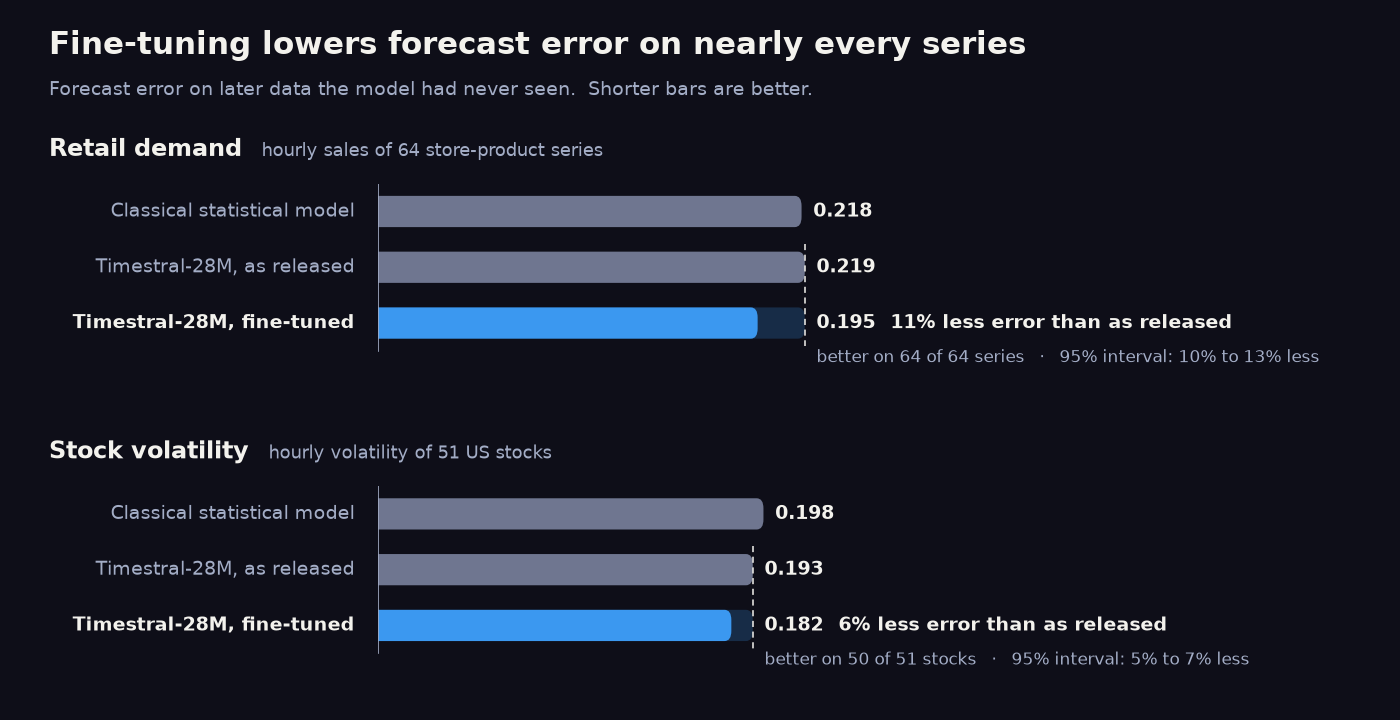
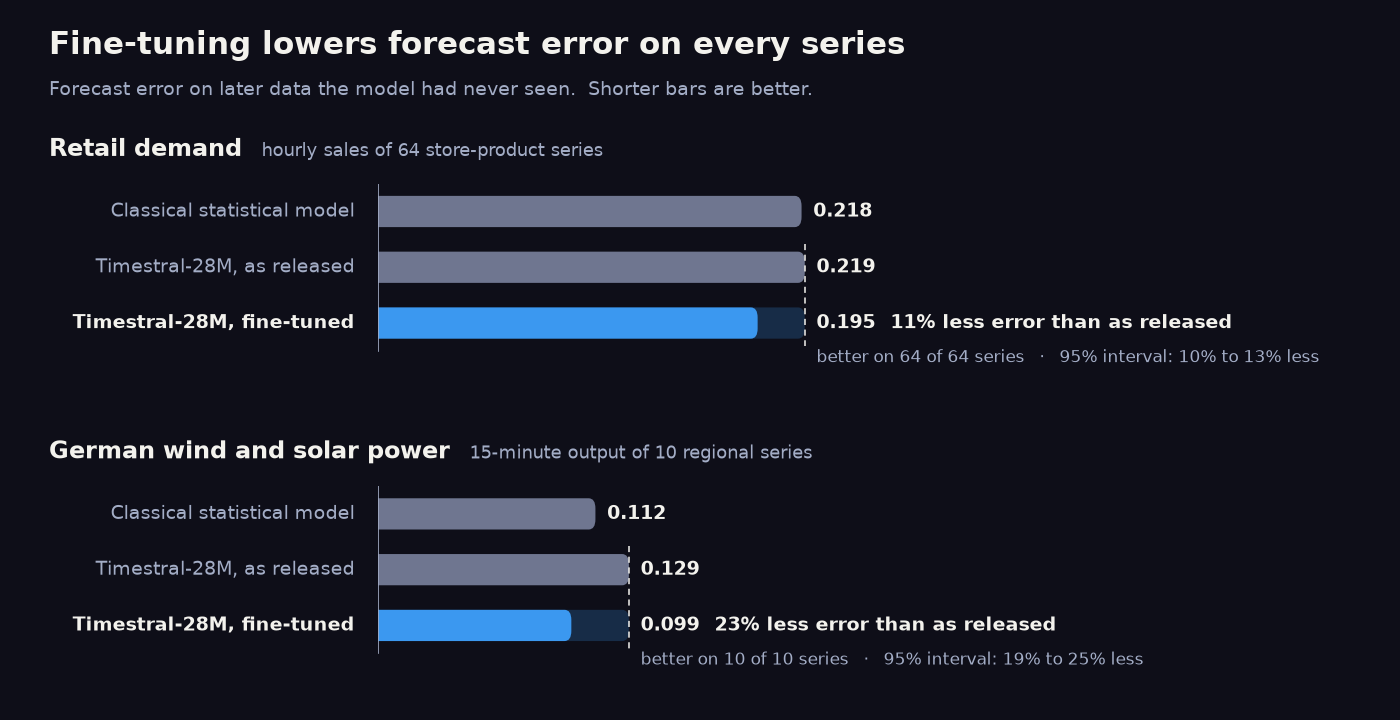
docs: lead the results chart with retail demand and German power
Stock volatility was the weakest result in the chart (6%, on a test
period that mostly predates the release). German wind and solar power is
the strongest one measured: 23% less error than the released model (95%
interval 19% to 25%), on all 10 series and 24 of 25 days, on data taken
entirely from after the release.

make_results_chart.py now reads its second panel from
wp3_unfamiliar_domains.json and names the classical baseline explicitly,
because the smallest baseline error in that file is the tuned
gradient-boosted model. That model is not drawn; the README says in the
sentence under the chart that fine-tuned 28M is level with it on German
power, and that the dataset was picked because the released model does
poorly on it.

The README headline, alt text and caption and the Summary in
docs/BENCHMARKS.md follow the chart. Stock volatility moves to "what
else we found" with its numbers kept. Evidence: docs/VERIFICATION.md §16.

diff --git a/scripts/make_results_chart.py b/scripts/make_results_chart.py
@@ -6,7 +6,10 @@ true proportion. A dashed line marks the model as released and the gap to the fi
 shaded. Under the fine-tuned bar the chart states how many series improved and the 95% confidence
 interval of the gain, so that a reader can see the gain is not noise.
 
-Every number is read from ``docs/benchmarks/sig_v2.json``; nothing is typed in by hand.
+Every number is read from the committed results; nothing is typed in by hand. Retail demand comes from
+``docs/benchmarks/sig_v2.json`` and German power, a test set from after the models' release, from
+``docs/benchmarks/wp3_unfamiliar_domains.json``. The tuned gradient-boosted baseline of that second
+file is deliberately not a bar: the README states that comparison in words next to the chart.
 
 matplotlib is not a project dependency. Run from the repository root:
 
@@ -26,7 +29,8 @@ import matplotlib.pyplot as plt
 from matplotlib.patches import FancyBboxPatch, Rectangle
 
 ROOT = Path(__file__).resolve().parent.parent
-SOURCE = ROOT / "docs" / "benchmarks" / "sig_v2.json"
+SIGNIFICANCE = ROOT / "docs" / "benchmarks" / "sig_v2.json"
+POST_RELEASE = ROOT / "docs" / "benchmarks" / "wp3_unfamiliar_domains.json"
 OUT = ROOT / "assets" / "results.png"
 
 # Colours follow the banner: near-black navy surface, cream text. The fine-tuned bar is blue and
@@ -38,30 +42,48 @@ TUNED = "#3b98f0"
 OTHER = "#6f7690"
 
 MODEL = "Timestral-28M"
+MODEL_KEY = "28M"
 TUNED_MODE = "full_ft"
-# (key in the results file, title, subtitle, what one series is called)
+# The classical baseline drawn for the post-release dataset. Named explicitly, because the smallest
+# baseline error in that file belongs to the tuned gradient-boosted model, which is not classical.
+POST_RELEASE_CLASSICAL = "classical_domain"
+# (results file, key in it, title, subtitle, what one series is called)
 PANELS = (
-    ("retail_demand", "Retail demand", "hourly sales of 64 store-product series", "series"),
-    ("realised_volatility_2026_10m", "Stock volatility", "hourly volatility of 51 US stocks", "stocks"),
+    (SIGNIFICANCE, "retail_demand", "Retail demand", "hourly sales of 64 store-product series", "series"),
+    (POST_RELEASE, "de_power_15m", "German wind and solar power", "15-minute output of 10 regional series", "series"),
 )
 X_MAX = 0.5
 BAR_HEIGHT = 0.56
 
 
-def load(dataset: str) -> dict[str, float]:
-    data = json.loads(SOURCE.read_text(encoding="utf-8"))["datasets"][dataset]
-    released = data["zero_shot"]["wql"]
-    mode = data["modes"][TUNED_MODE]
-    by_series = mode["paired_by_series"]
-    low, high = (100.0 * bound / released for bound in by_series["ci95_delta_wql"])
+def load(source: Path, dataset: str) -> dict[str, float]:
+    results = json.loads(source.read_text(encoding="utf-8"))
+    if source == SIGNIFICANCE:
+        data = results["datasets"][dataset]
+        released = data["zero_shot"]["wql"]
+        mode = data["modes"][TUNED_MODE]
+        by_series = mode["paired_by_series"]
+        classical = min(baseline["wql"] for baseline in data["baselines"].values())
+        tuned = mode["wql_mean"]
+        low, high = (100.0 * bound / released for bound in by_series["ci95_delta_wql"])
+        improved = by_series["clusters_improved_wql"]
+    else:
+        model = results["models"][MODEL_KEY][dataset]
+        released = model["zero_shot"]["raw"]["wql"]
+        mode = model["modes"][TUNED_MODE]
+        by_series = mode["paired_vs_zero_shot"]["raw"]["by_series"]["wql"]
+        classical = results["baselines"][dataset][POST_RELEASE_CLASSICAL]["metrics"]["raw"]["wql"]
+        tuned = mode["summary"]["raw"]["wql_mean"]
+        low, high = (100.0 * bound for bound in by_series["ci95_rel_delta"])
+        improved = by_series["clusters_improved"]
     return {
-        "classical": min(baseline["wql"] for baseline in data["baselines"].values()),
+        "classical": classical,
         "released": released,
-        "tuned": mode["wql_mean"],
-        "change": 100.0 * (mode["wql_mean"] / released - 1.0),
+        "tuned": tuned,
+        "change": 100.0 * (tuned / released - 1.0),
         "ci_small": min(abs(low), abs(high)),
         "ci_large": max(abs(low), abs(high)),
-        "improved": by_series["clusters_improved_wql"],
+        "improved": improved,
         "series": by_series["n_clusters"],
     }
 
@@ -89,9 +111,7 @@ def main() -> None:
 
     plt.rcParams.update({"font.family": "DejaVu Sans", "font.size": 13})
     fig = plt.figure(figsize=(14, 7.2), dpi=100, facecolor=SURFACE)
-    fig.text(
-        0.035, 0.925, "Fine-tuning lowers forecast error on nearly every series", color=TEXT, fontsize=22, weight="bold"
-    )
+    fig.text(0.035, 0.925, "Fine-tuning lowers forecast error on every series", color=TEXT, fontsize=22, weight="bold")
     fig.text(
         0.035,
         0.868,
@@ -100,9 +120,9 @@ def main() -> None:
         fontsize=14,
     )
 
-    for (dataset, title, subtitle, unit), bottom in zip(PANELS, (0.47, 0.05), strict=True):
+    for (source, dataset, title, subtitle, unit), bottom in zip(PANELS, (0.47, 0.05), strict=True):
         ax = fig.add_axes((0.27, bottom, 0.695, 0.275), facecolor=SURFACE)
-        stats = load(dataset)
+        stats = load(source, dataset)
         rows = (
             ("Classical statistical model", stats["classical"], OTHER),
             (f"{MODEL}, as released", stats["released"], OTHER),
@@ -160,8 +180,8 @@ def main() -> None:
     args.output.parent.mkdir(parents=True, exist_ok=True)
     fig.savefig(args.output, facecolor=SURFACE)
     print(f"wrote {args.output} ({fig.get_size_inches()[0] * fig.dpi:.0f} x {fig.get_size_inches()[1] * fig.dpi:.0f})")
-    for dataset, _, _, _ in PANELS:
-        print(dataset, {key: round(value, 4) for key, value in load(dataset).items()})
+    for source, dataset, _, _, _ in PANELS:
+        print(dataset, {key: round(value, 4) for key, value in load(source, dataset).items()})
 
 
 if __name__ == "__main__":

diff --git a/docs/BENCHMARKS.md b/docs/BENCHMARKS.md
@@ -2,10 +2,10 @@
 
 ## Summary
 
-Fine-tuning cut forecast error by about 11% on retail demand and 6% on stock volatility, in under a
-minute on a single GPU.
+Fine-tuning cut forecast error by about 11% on retail demand and 23% on German wind and solar power,
+in under a minute on a single GPU.
 
-![Forecast error of a classical statistical model, Timestral-28M as released, and Timestral-28M fine-tuned, on retail demand and stock volatility](../assets/results.png)
+![Forecast error of a classical statistical model, Timestral-28M as released, and Timestral-28M fine-tuned, on retail demand and German wind and solar power](../assets/results.png)
 
 We fine-tuned Timestral-28M on two real datasets and scored it on later data it had never seen. The
 bars show how far the forecasts were from what happened, so shorter is better. The dashed line marks
@@ -13,37 +13,48 @@ the model exactly as Mistral AI released it.
 
 These gains are not noise:
 
-- **Nearly every series improved.** Fine-tuning made the forecasts better on all 64 retail series and
-  on 50 of the 51 stocks.
+- **Every series improved.** Fine-tuning made the forecasts better on all 64 retail series and on all
+  10 German power series.
 - **It held up over time.** Splitting the test data into consecutive periods, the fine-tuned model was
-  ahead in 6 of 6 periods on retail demand and in 46 of 49 on stock volatility.
+  ahead in 6 of 6 periods on retail demand and on 24 of 25 days on German power.
 - **The uncertainty is small next to the gain.** The 95% confidence interval is 10% to 13% less error
-  on retail demand and 5% to 7% less on stock volatility.
-- **Repeating the training changes little.** Three fine-tuning runs on retail demand with different
-  random seeds landed within 0.4% of each other.
+  on retail demand and 19% to 25% less on German power.
+- **Repeating the training changes little.** Three fine-tuning runs with different random seeds landed
+  within 0.4% of each other on retail demand and within 1.2% on German power.
 
 What else we found:
 
 - **Every model size improved**, from 5M to 209M.
+- **Stock volatility improved by 6%.** On the hourly volatility of 51 US stocks, fine-tuning made the
+  forecasts better on 50 of the 51 stocks and in 46 of 49 consecutive periods (95% interval: 5% to 7%
+  less error). The error was 0.193 as released and 0.182 fine-tuned, against 0.198 for a classical HAR
+  model.
+- **Two more test sets from after the release improved by 23% and 9%**: wave heights off Sri Lanka and
+  air pollution in Indian cities. Each has only five test periods, so these are less certain over time.
 - **A small fine-tuned model can beat a larger one as released.** On retail demand the fine-tuned 5M
   model made 7% to 10% less error than every model size as released, the 209M included.
 - **Little was forgotten.** On three unrelated datasets, the error of the fully fine-tuned models moved
   by less than 3% either way.
 - **Against a tuned gradient-boosted model the result is mixed.** Gradient boosting is a stronger
   baseline than the classical models in the chart. Fine-tuned Timestral-28M made 8% less error than it
-  on retail demand and 6% less on stock volatility, the two datasets in the chart, whose test periods
-  mostly predate the models' release. On four test sets taken entirely from after the release (18 days
-  of stock volatility, German wind and solar power, air pollution in Indian cities and wave heights off
-  Sri Lanka) the two were level: no difference was larger than its margin of error. The fine-tuned 5M
-  model did not beat gradient boosting on any of the four, and was clearly behind on German power.
+  on retail demand and 6% less on stock volatility, whose test periods mostly predate the models'
+  release. On four test sets taken entirely from after the release (German wind and solar power, 18
+  days of stock volatility, air pollution in Indian cities and wave heights off Sri Lanka) the two were
+  level: no difference was larger than its margin of error. The fine-tuned 5M model did not beat
+  gradient boosting on any of the four, and was clearly behind on German power.
 
 The fine print:
 
 - The chart uses full fine-tuning at default settings. Error is the weighted quantile loss, which
-  scores the whole predicted range and not just a single best guess. The classical models are a
-  seasonal ridge regression for retail demand and a HAR model for stock volatility.
+  scores the whole predicted range and not just a single best guess. The classical models are ridge
+  regressions: a seasonal one for retail demand, and one on recent values and the known inputs for
+  German power.
 - The gradient-boosted model is scikit-learn's `HistGradientBoostingRegressor`. It predicts the same
   range of outcomes, trains on a CPU, and has its settings chosen on validation data.
+- The German power test covers the 25 days after the models' release (28 October to 21 November 2026).
+  We picked this dataset because the released model does poorly on it, so 23% is what fine-tuning can
+  recover there and not a typical gain. Every method is given the grid operators' day-ahead forecast as
+  an input; for the last hour of each day that forecast had not yet been published at forecast time.
 - The stock volatility test covers January to November 2026. Most of that is before the models'
   release in late October, so the released model may have seen some of it in its own training. On the
   18 days after the release the gain is the same 6%, but that is too short a period to confirm on its
@@ -51,8 +62,9 @@ The fine print:
 - The retail data is from 2024 and may also have been part of the models' training data.
 
 The sections below hold the numbers behind this summary, with the commands to reproduce them: §1 and §3
-for the four model sizes, §4 for the chart, its confidence intervals and the repeated runs, and §6.1 and
-§6.3 for the comparison with gradient boosting.
+for the four model sizes, §4 for retail demand and stock volatility with their confidence intervals and
+repeated runs, and §6.1 and §6.3 for German power, the other post-release test sets and the comparison
+with gradient boosting.
 
 ## Measurement setup
 

diff --git a/README.md b/README.md
@@ -132,19 +132,20 @@ to three percentage points more forgetting; keep 1e-4 on 123M and 209M.
 
 ## Results
 
-Fine-tuning cut forecast error by about 11% on retail demand and 6% on stock volatility, in under a
-minute on a single GPU.
+Fine-tuning cut forecast error by about 11% on retail demand and 23% on German wind and solar power,
+in under a minute on a single GPU.
 
 <p align="center">
   <img src="https://raw.githubusercontent.com/eyenoticeall/timestral-tune/main/assets/results.png" width="100%"
-       alt="Forecast error of a classical statistical model, Timestral-28M as released, and Timestral-28M fine-tuned. Retail demand: 0.218, 0.219 and 0.195; fine-tuning gives 11% less error, better on 64 of 64 series. Stock volatility: 0.198, 0.193 and 0.182; 6% less error, better on 50 of 51 stocks.">
+       alt="Forecast error of a classical statistical model, Timestral-28M as released, and Timestral-28M fine-tuned. Retail demand: 0.218, 0.219 and 0.195; fine-tuning gives 11% less error, better on 64 of 64 series. German wind and solar power: 0.112, 0.129 and 0.099; 23% less error, better on 10 of 10 series.">
 </p>
 
-The chart shows Timestral-28M before and after fine-tuning. Shorter bars are better, and nearly every
-series improved (64 of 64 on retail demand, 50 of 51 stocks). That gain is measured against the model
-as released. Against a tuned gradient-boosted model, fine-tuned 28M was 6% to 8% ahead on these two
-datasets, whose test periods mostly predate the models' release, and level on four test sets from
-after it.
+The chart shows Timestral-28M before and after fine-tuning. Shorter bars are better, and every series
+improved. The gain is measured against the model as released, and we picked German power because the
+released model does poorly on it, so read 23% as what fine-tuning can recover and not as a typical
+gain. A tuned gradient-boosted model is a stronger alternative than either grey bar: fine-tuned 28M
+was 8% ahead of it on retail demand, whose test period predates the models' release, and level with it
+on German power.
 
 The [summary in docs/BENCHMARKS.md](https://github.com/eyenoticeall/timestral-tune/blob/main/docs/BENCHMARKS.md#summary)
 explains why these gains are not noise, what else we found and the fine print. The rest of that page
